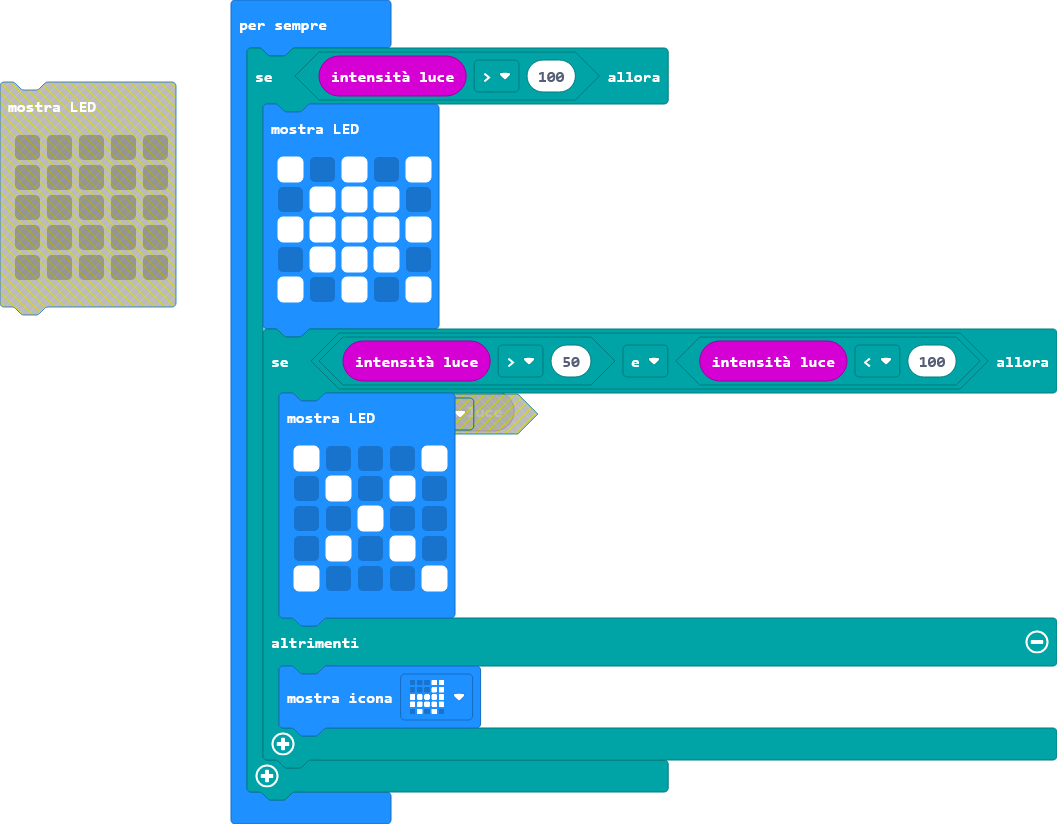
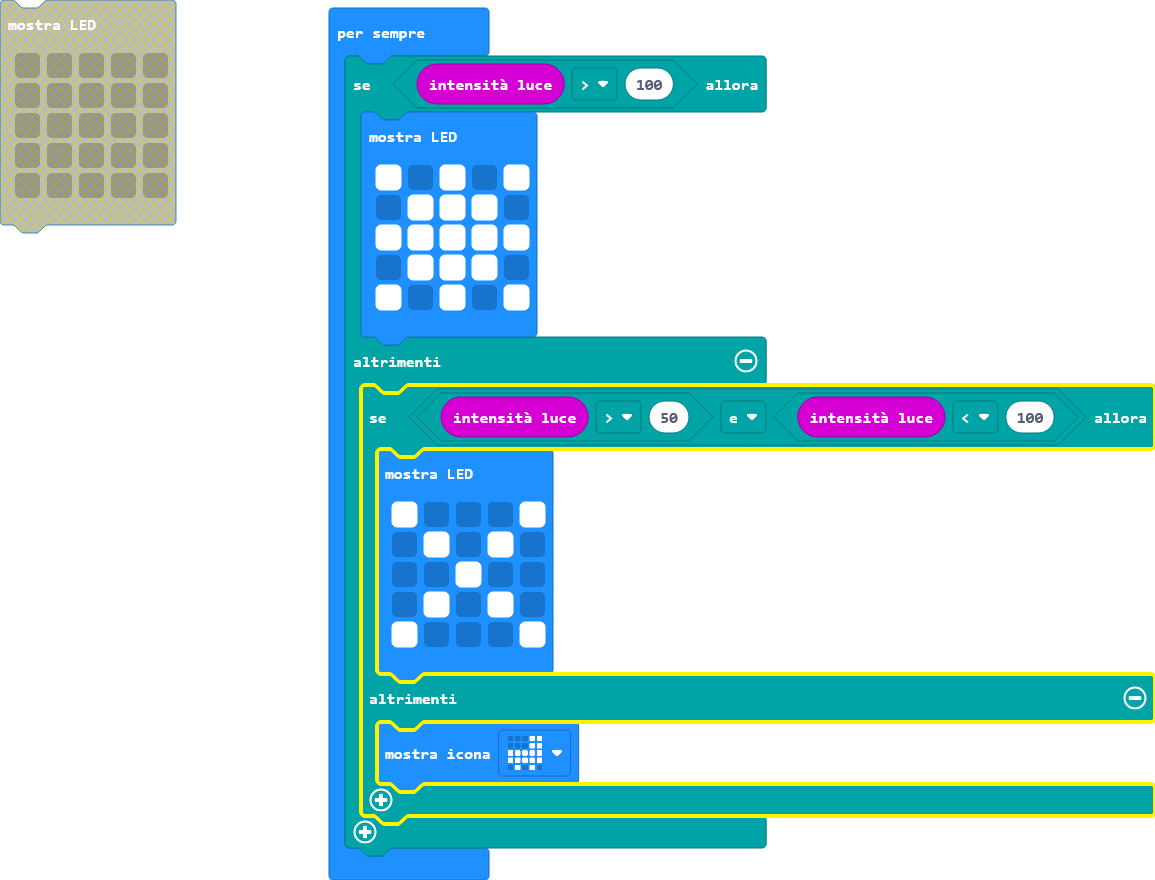
Aggiorna main.blocks, main.ts

diff --git a/main.ts b/main.ts
@@ -7,6 +7,7 @@ basic.forever(function () {
             . # # # .
             # . # . #
             `)
+    } else {
         if (input.lightLevel() > 50 && input.lightLevel() < 100) {
             basic.showLeds(`
                 # . . . #
